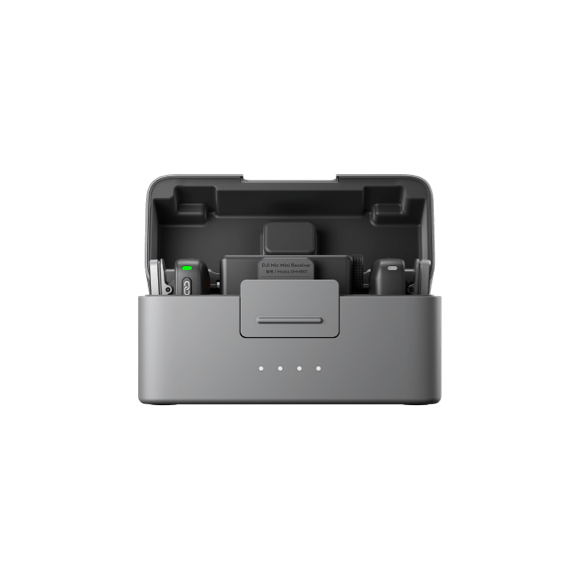
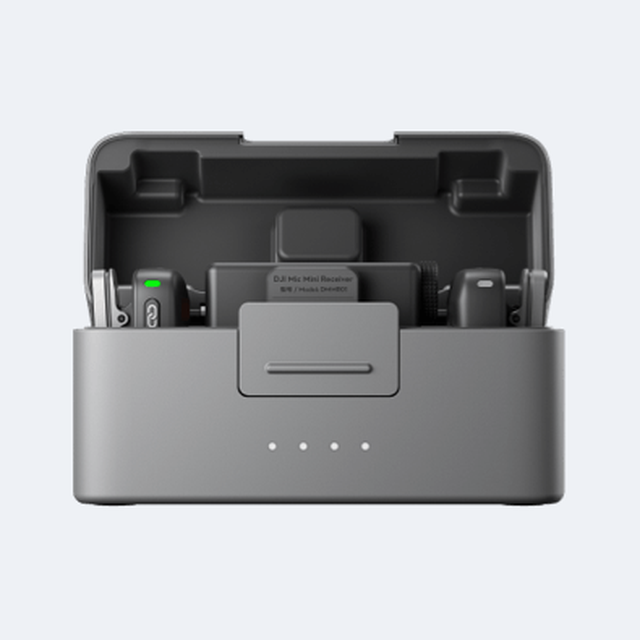
Fix gear image contrast + clarify loadout pick labels
- Re-cut sony-zv1-ii, dji-mic-mini, elgato-cam-link-4k onto light #eef1f5 bg so they read on both dark loadout tiles and the white camera card (originals kept in img/gear/_originals/)
- Add docs/img-contrast-check.py checker and the 2026-07-03 image audit
- Rename "YOUR PICK" badges to "PICK AT CHECKOUT" on all three product pages

diff --git a/products/metro.html b/products/metro.html
@@ -126,12 +126,12 @@
         </div>
         <div class="load-row">
           <img src="../img/gear/dji-mic-mini.png" alt="DJI Mic Mini wireless microphone set" loading="lazy" width="58" height="58" />
-          <div><div class="load-name">Mic <span class="badge-pre">◆ YOUR PICK</span></div><div class="load-role">Boom mic or DJI Mic Mini ×2</div></div>
-          <div class="load-spec">YOUR CALL<div class="load-bar" style="width:54px"></div></div>
+          <div><div class="load-name">Mic <span class="badge-pre">◆ PICK AT CHECKOUT</span></div><div class="load-role">Boom mic or DJI Mic Mini ×2</div></div>
+          <div class="load-spec">AT CHECKOUT<div class="load-bar" style="width:54px"></div></div>
         </div>
         <div class="load-row">
           <img src="../img/gear/ulanzi-vl49-led.png" alt="RGB LED video light" loading="lazy" width="58" height="58" />
-          <div><div class="load-name">LED Light <span class="badge-pre">◆ YOUR PICK</span></div><div class="load-role">Basic clip-on, mid RGB, or pro bi-color</div></div>
+          <div><div class="load-name">LED Light <span class="badge-pre">◆ PICK AT CHECKOUT</span></div><div class="load-role">Basic clip-on, mid RGB, or pro bi-color</div></div>
           <div class="load-spec">3 TIERS<div class="load-bar" style="width:48px"></div></div>
         </div>
         <div class="load-row">

diff --git a/products/nomad.html b/products/nomad.html
@@ -126,12 +126,12 @@
         </div>
         <div class="load-row">
           <img src="../img/gear/dji-mic-mini.png" alt="DJI Mic Mini wireless microphone set" loading="lazy" width="58" height="58" />
-          <div><div class="load-name">Mic <span class="badge-pre">◆ YOUR PICK</span></div><div class="load-role">Boom mic or DJI Mic Mini ×2</div></div>
-          <div class="load-spec">YOUR CALL<div class="load-bar" style="width:54px"></div></div>
+          <div><div class="load-name">Mic <span class="badge-pre">◆ PICK AT CHECKOUT</span></div><div class="load-role">Boom mic or DJI Mic Mini ×2</div></div>
+          <div class="load-spec">AT CHECKOUT<div class="load-bar" style="width:54px"></div></div>
         </div>
         <div class="load-row">
           <img src="../img/gear/ulanzi-vl49-led.png" alt="RGB LED video light" loading="lazy" width="58" height="58" />
-          <div><div class="load-name">LED Light <span class="badge-pre">◆ YOUR PICK</span></div><div class="load-role">Basic clip-on, mid RGB, or pro bi-color</div></div>
+          <div><div class="load-name">LED Light <span class="badge-pre">◆ PICK AT CHECKOUT</span></div><div class="load-role">Basic clip-on, mid RGB, or pro bi-color</div></div>
           <div class="load-spec">3 TIERS<div class="load-bar" style="width:48px"></div></div>
         </div>
         <div class="load-row">

diff --git a/products/roamer.html b/products/roamer.html
@@ -126,12 +126,12 @@
         </div>
         <div class="load-row">
           <img src="../img/gear/dji-mic-mini.png" alt="DJI Mic Mini wireless microphone set" loading="lazy" width="58" height="58" />
-          <div><div class="load-name">Mic <span class="badge-pre">◆ YOUR PICK</span></div><div class="load-role">Boom mic or DJI Mic Mini ×2</div></div>
-          <div class="load-spec">YOUR CALL<div class="load-bar" style="width:54px"></div></div>
+          <div><div class="load-name">Mic <span class="badge-pre">◆ PICK AT CHECKOUT</span></div><div class="load-role">Boom mic or DJI Mic Mini ×2</div></div>
+          <div class="load-spec">AT CHECKOUT<div class="load-bar" style="width:54px"></div></div>
         </div>
         <div class="load-row">
           <img src="../img/gear/ulanzi-vl49-led.png" alt="RGB LED video light" loading="lazy" width="58" height="58" />
-          <div><div class="load-name">LED Light <span class="badge-pre">◆ YOUR PICK</span></div><div class="load-role">Basic clip-on, mid RGB, or pro bi-color</div></div>
+          <div><div class="load-name">LED Light <span class="badge-pre">◆ PICK AT CHECKOUT</span></div><div class="load-role">Basic clip-on, mid RGB, or pro bi-color</div></div>
           <div class="load-spec">3 TIERS<div class="load-bar" style="width:48px"></div></div>
         </div>
         <div class="load-row">

diff --git a/docs/img-contrast-check.py b/docs/img-contrast-check.py
@@ -1,0 +1,76 @@
+#!/usr/bin/env python3
+"""Product-image contrast checker (TG6 rule, 2026-07-03).
+
+Flags images whose product blends into the image background —
+dark-on-dark is the canonical fail (see img/gear/sony-zv1-ii.jpg in
+img/gear/_originals/). Flagged images go to tg6-marketing for background
+replacement or removal + offset color.
+
+Run from repo root:  python3 docs/img-contrast-check.py
+"""
+import os
+from PIL import Image
+
+ROOT = os.path.join(os.path.dirname(__file__), "..", "img")
+EXT = {".jpg", ".jpeg", ".png", ".webp", ".avif", ".gif"}
+SKIP_DIRS = {"fav", "_originals"}
+
+
+def luminance(px):
+    r, g, b = px[:3]
+    return 0.2126 * r + 0.7152 * g + 0.0722 * b
+
+
+def analyze(path):
+    im = Image.open(path)
+    w, h = im.size
+    has_alpha = im.mode in ("RGBA", "LA", "PA") and im.getextrema()[-1][0] < 255
+    small = im.convert("RGB").resize((min(w, 200), min(h, 200)))
+    sw, sh = small.size
+    px = small.load()
+    border, center = [], []
+    m = max(2, min(sw, sh) // 10)
+    for x in range(sw):
+        for y in range(sh):
+            L = luminance(px[x, y])
+            if x < m or x >= sw - m or y < m or y >= sh - m:
+                border.append(L)
+            elif sw * 0.3 < x < sw * 0.7 and sh * 0.3 < y < sh * 0.7:
+                center.append(L)
+    bg = sum(border) / len(border)
+    fg = sum(center) / len(center) if center else bg
+    contrast = abs(fg - bg)
+    kb = os.path.getsize(path) / 1024
+    flags = []
+    if not has_alpha:
+        if bg < 60 and contrast < 45:
+            flags.append("DARK-ON-DARK")
+        elif contrast < 30:
+            flags.append("LOW-CONTRAST")
+    if kb > 300:
+        flags.append("HEAVY")
+    return w, h, im.format, kb, has_alpha, bg, fg, contrast, flags
+
+
+def main():
+    print(f"{'file':<40}{'dims':<12}{'fmt':<6}{'KB':>7}  {'alpha':<6}{'bgLum':>6}{'fgLum':>6}{'ctr':>5}  flags")
+    failures = 0
+    for dirpath, dirs, files in os.walk(ROOT):
+        dirs[:] = [d for d in dirs if d not in SKIP_DIRS]
+        for f in sorted(files):
+            if os.path.splitext(f)[1].lower() not in EXT:
+                continue
+            p = os.path.join(dirpath, f)
+            rel = os.path.relpath(p, ROOT)
+            try:
+                w, h, fmt, kb, a, bg, fg, c, flags = analyze(p)
+                print(f"{rel:<40}{f'{w}x{h}':<12}{fmt:<6}{kb:>7.0f}  {str(a):<6}{bg:>6.0f}{fg:>6.0f}{c:>5.0f}  {','.join(flags)}")
+                if any(fl in ("DARK-ON-DARK", "LOW-CONTRAST") for fl in flags):
+                    failures += 1
+            except Exception as e:
+                print(f"{rel:<40}ERROR: {e}")
+    print(f"\n{failures} contrast failure(s)." + (" Hand to tg6-marketing per the product-image-contrast rule." if failures else ""))
+
+
+if __name__ == "__main__":
+    main()

diff --git a/docs/image-audit-2026-07-03.md b/docs/image-audit-2026-07-03.md
@@ -1,0 +1,42 @@
+# Image Audit — 2026-07-03
+
+Full pass over `img/` (favicons skipped). Checker: `docs/img-contrast-check.py`.
+
+## Render contexts (why contrast matters twice)
+
+Gear images render in two places with opposite surfaces:
+
+- `.load-tile` — 58×58 thumbnails on the near-black site background `#07060c` (all three product pages, loadout list)
+- `.cam-media` — camera card on a **white** `#fff` tile (product pages, camera section — sony image only)
+
+An image must read on both.
+
+## Contrast failures → sent to tg6-marketing (2026-07-03)
+
+| file | problem |
+|---|---|
+| `img/gear/sony-zv1-ii.jpg` | Black camera on black studio bg (contrast ≈ 4/255). Invisible on dark tiles, dead black slab in the white card. Canonical fail for the new rule. |
+| `img/gear/dji-mic-mini.png` | Black mic kit on solid `#000` bg. Blends into the dark loadout tile. |
+| `img/gear/elgato-cam-link-4k.jpg` | Wood-desk lifestyle shot — busy and muddy at 58px, inconsistent with the clean catalog style. |
+
+Treatment: background removed/replaced with a light neutral offset color so the product pops on both surfaces. Originals backed up in `img/gear/_originals/`.
+
+**STATUS: FIXED 2026-07-03** by tg6-marketing — all three re-cut (rembg/PIL, no AI regeneration; product markings intact) onto solid `#eef1f5`. Re-run of the checker confirms all three now pass (contrast 225 / 138 / 91). Only remaining flags are `brand/tg6-rig.jpg` (intentional moody brand shot — accepted) and unused `misc/na.png`.
+
+## Passing product images
+
+`np-f970-battery.jpg`, `sandisk-high-endurance.png`, `starlink-mini.png`, `tmobile-5g-gateway.png`, `ulanzi-vl49-led.png` (white/light bg — good on dark tiles), `dell-latitude-7420.png`, `peplink-max-transit.png` (transparent — good), `tg6-metro.png`, `tg6-nomad.png`, `tg6-roamer.png` (light bg — good).
+
+## Housekeeping findings (not yet actioned)
+
+1. **Wrong extensions** — these are JPEG data named `.png` (browsers cope, tooling won't):
+   `img/in-stock/tg6-metro.png`, `img/pre-orders/tg6-nomad.png`, `img/pre-orders/tg6-roamer.png`
+2. **Heavy files** (compress or convert to WebP before deploy):
+   `img/gear/dell-latitude-7420.png` 907 KB · `img/brand/tg6-wordmark.png` 556 KB · `img/brand/tg6-wolf.png` 500 KB · `img/brand/tg6-circuit.jpg` 341 KB
+3. **Unused files** (zero references in HTML/CSS/JS — candidates for deletion):
+   `img/gear/rode-videomic-go-ii.png`, `img/insta/insta-1.png`, `img/misc/na.png` (itself dark-on-dark — fix it if it ever becomes the fallback placeholder), `img/404.svg`, `img/done.svg`, `img/hero-bg.svg`, `img/about-bg.svg`, `img/contact-bg.svg`, `img/logo-01.svg`, `img/jacket-icon.svg`, `img/pants-icon.svg`, `img/shirt-icon.svg`, `img/watch-icon.svg`, `img/fav/tg6-mark-512.png`, most of the `img/fav/` pack (only `apple-icon-180x180`, `favicon-16x16`, `favicon-32x32` are referenced)
+4. **Leftover junk** — `.superpowers/brainstorm/…` contains duplicate gear images; not part of the site.
+
+## Standing rule (memorized as `feedback_product_image_contrast`)
+
+Every retrieved product image gets a contrast check (product vs. its bg, image vs. destination surface). Dark-on-dark or low contrast → hand to tg6-marketing to replace the background, or remove it and set a solid offset-color background. Heuristic: border luminance < 60 with border/center contrast < 45 = fail.
